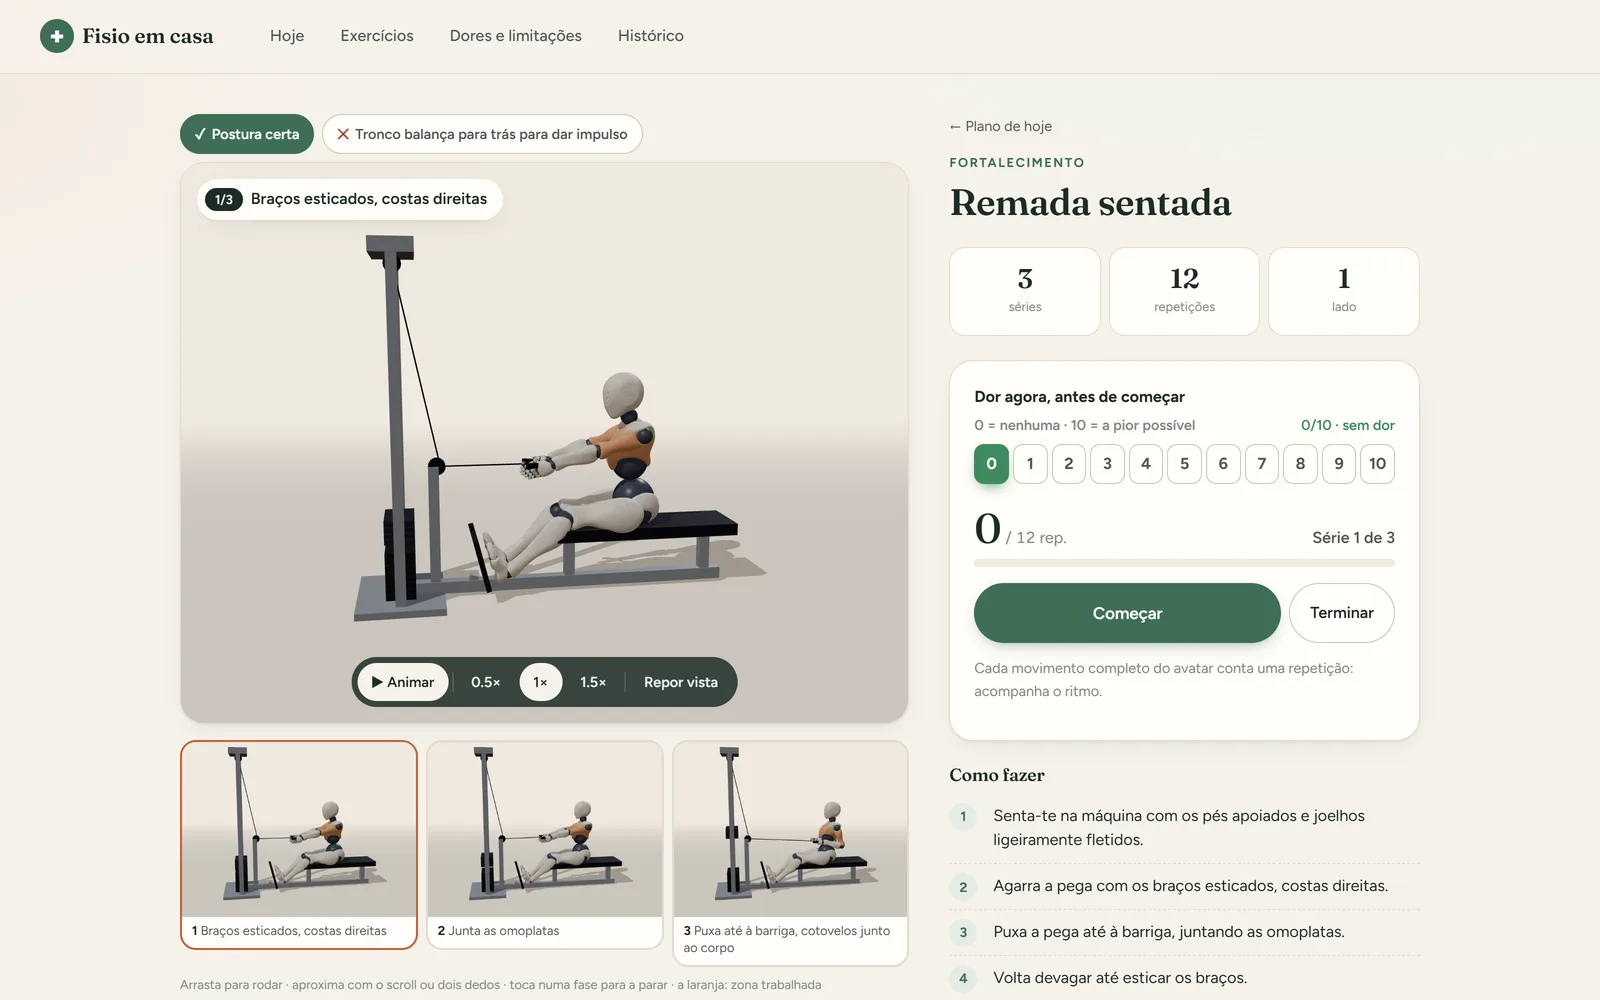
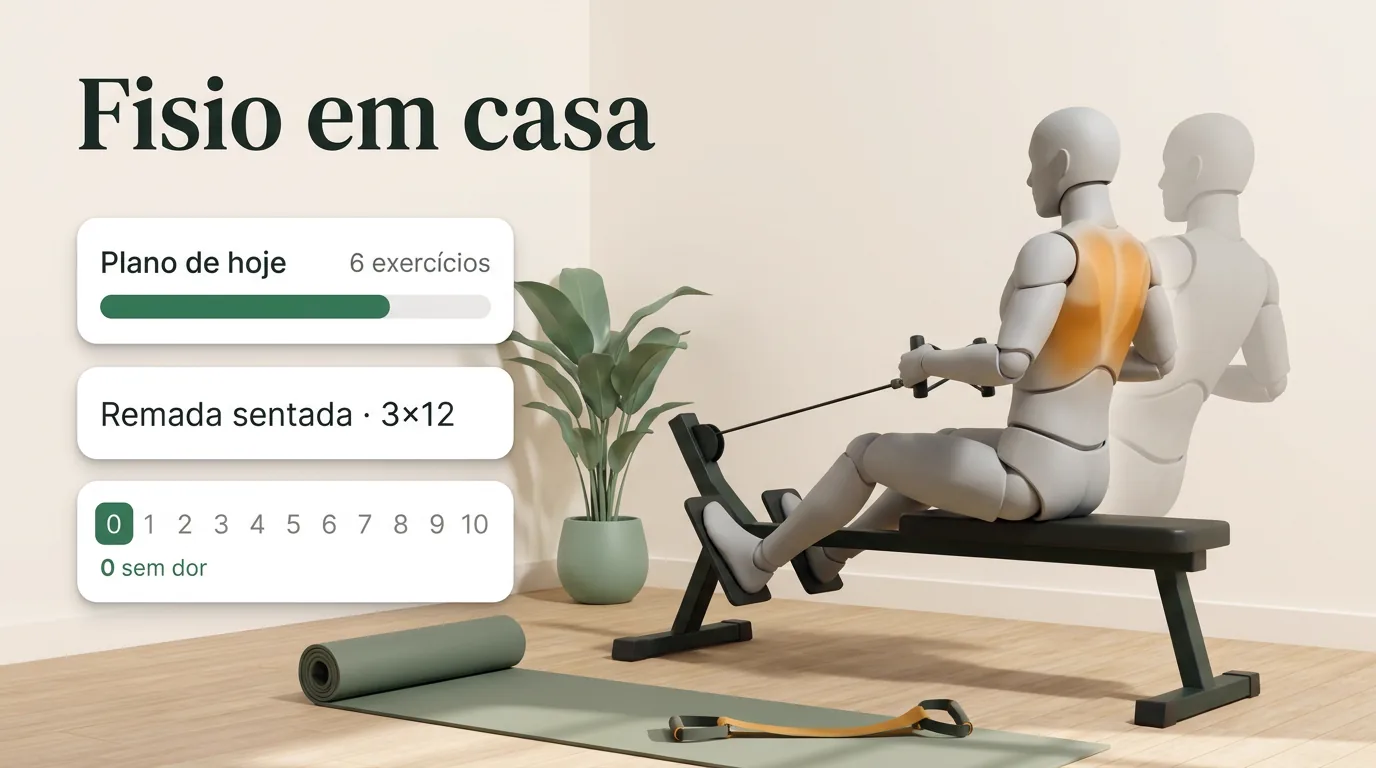
feat: new concept covers for EsDomusTech, L'Essence, Lousa and Fisio
EsDomusTech gets its own 16:9 cover instead of the logo and the
portrait photo. Cards align these covers left so the side crop
keeps the project name in the image intact.

diff --git a/index.html b/index.html
@@ -163,7 +163,7 @@
 
           <!-- EsDomusTech (Lovable) -->
           <article class="project-card span-7 reveal">
-            <img src="assets/img/esdomustech-t3-hero.webp" alt="Casa modular EsDomusTech" class="project-img" loading="lazy" width="1086" height="1448" />
+            <img src="assets/img/esdomustech-cover.webp" alt="EsDomusTech: casa modular ao anoitecer, com linhas de planta técnica a dourado e as medidas dos módulos" class="project-img" loading="lazy" width="1376" height="768" style="object-position: left center" />
             <div class="project-overlay"></div>
             <span class="project-index mono">01</span>
             <span class="project-arrow" aria-hidden="true">
@@ -248,7 +248,7 @@
 
           <!-- L'Essence Atelier -->
           <article class="project-card span-5 reveal" style="--d:.08s">
-            <img src="assets/img/lessence-atelier-cover.webp" alt="Loja online L'Essence Atelier" class="project-img" loading="lazy" width="1600" height="1000" style="object-position: 80% center" />
+            <img src="assets/img/lessence-atelier-cover.webp" alt="L'Essence Atelier: frasco de perfume sobre mármore com cartões da loja online — tamanhos, checkout em 3 passos, encomendas e eventos de analytics" class="project-img" loading="lazy" width="1376" height="768" style="object-position: left center" />
             <div class="project-overlay"></div>
             <span class="project-index mono">06</span>
             <span class="project-arrow" aria-hidden="true">
@@ -265,7 +265,7 @@
 
           <!-- Lousa -->
           <article class="project-card span-7 reveal">
-            <img src="assets/img/lousa-cover.webp" alt="Lousa: layout de armazém com corredores A a D, docas, receção e rota de picking em S desenhada à mão, com post-its de notas" class="project-img" loading="lazy" width="1600" height="1000" />
+            <img src="assets/img/lousa-cover.webp" alt="Lousa: planta de armazém desenhada a giz numa ardósia, com rota de picking em S, post-its e cursores de três pessoas a desenhar ao mesmo tempo" class="project-img" loading="lazy" width="1376" height="768" style="object-position: left center" />
             <div class="project-overlay"></div>
             <span class="project-index mono">07</span>
             <span class="project-arrow" aria-hidden="true">
@@ -282,7 +282,7 @@
 
           <!-- Fisio em casa -->
           <article class="project-card span-5 reveal" style="--d:.08s">
-            <img src="assets/img/fisio-em-casa-cover.webp" alt="Fisio em casa: avatar 3D numa máquina de remada sentada" class="project-img" loading="lazy" width="1600" height="1000" style="object-position: 30% center" />
+            <img src="assets/img/fisio-em-casa-cover.webp" alt="Fisio em casa: avatar 3D na remada sentada com a zona trabalhada a laranja, plano do dia e escala de dor" class="project-img" loading="lazy" width="1376" height="768" style="object-position: left center" />
             <div class="project-overlay"></div>
             <span class="project-index mono">08</span>
             <span class="project-arrow" aria-hidden="true">

diff --git a/projects.html b/projects.html
@@ -70,9 +70,7 @@
 
         <!-- EsDomusTech (Lovable) -->
         <article class="project-card reveal" data-category="client">
-          <div class="project-logo-thumb framed">
-            <img src="assets/img/domustech-logo.webp" alt="Logo ESDOMUSTECH" loading="lazy" width="800" height="800" />
-          </div>
+          <img src="assets/img/esdomustech-cover.webp" alt="EsDomusTech: casa modular ao anoitecer, com linhas de planta técnica a dourado e as medidas dos módulos" class="project-thumb" loading="lazy" width="1376" height="768" style="object-position: left center" />
           <div class="project-body">
             <div class="project-head mono">
               <span class="project-no">01</span>
@@ -167,7 +165,7 @@
 
         <!-- L'Essence Atelier -->
         <article class="project-card reveal" data-category="fullstack" style="--d:.06s">
-          <img src="assets/img/lessence-atelier-cover.webp" alt="L'Essence Atelier" class="project-thumb" loading="lazy" width="1600" height="1000" />
+          <img src="assets/img/lessence-atelier-cover.webp" alt="L'Essence Atelier: frasco de perfume sobre mármore com cartões da loja online — tamanhos, checkout em 3 passos, encomendas e eventos de analytics" class="project-thumb" loading="lazy" width="1376" height="768" style="object-position: left center" />
           <div class="project-body">
             <div class="project-head mono">
               <span class="project-no">06</span>
@@ -224,7 +222,7 @@
 
         <!-- Lousa -->
         <article class="project-card reveal" data-category="fullstack ops" style="--d:.06s">
-          <img src="assets/img/lousa-cover.webp" alt="Lousa: layout de armazém com corredores A a D, docas, receção e rota de picking em S desenhada à mão, com post-its de notas" class="project-thumb" loading="lazy" width="1600" height="1000" />
+          <img src="assets/img/lousa-cover.webp" alt="Lousa: planta de armazém desenhada a giz numa ardósia, com rota de picking em S, post-its e cursores de três pessoas a desenhar ao mesmo tempo" class="project-thumb" loading="lazy" width="1376" height="768" style="object-position: left center" />
           <div class="project-body">
             <div class="project-head mono">
               <span class="project-no">09</span>
@@ -243,7 +241,7 @@
 
         <!-- Fisio em casa -->
         <article class="project-card reveal" data-category="fullstack 3d">
-          <img src="assets/img/fisio-em-casa-cover.webp" alt="Fisio em casa: avatar 3D numa máquina de remada sentada, com as fases do exercício e o registo de dor ao lado" class="project-thumb" loading="lazy" width="1600" height="1000" />
+          <img src="assets/img/fisio-em-casa-cover.webp" alt="Fisio em casa: avatar 3D na remada sentada com a zona trabalhada a laranja, plano do dia e escala de dor" class="project-thumb" loading="lazy" width="1376" height="768" style="object-position: left center" />
           <div class="project-body">
             <div class="project-head mono">
               <span class="project-no">10</span>

diff --git a/projetos/esdomustech.html b/projetos/esdomustech.html
@@ -14,7 +14,7 @@
   <meta property="og:type" content="article" />
   <meta property="og:locale" content="pt_PT" />
   <meta property="og:url" content="https://diogoafonsosilva.github.io/projetos/esdomustech.html" />
-  <meta property="og:image" content="https://diogoafonsosilva.github.io/assets/img/esdomustech-t3-hero.webp" />
+  <meta property="og:image" content="https://diogoafonsosilva.github.io/assets/img/esdomustech-cover.webp" />
   <meta name="twitter:card" content="summary_large_image" />
 
   <link rel="icon" type="image/png" href="../assets/img/favicon.png" />
@@ -37,7 +37,7 @@
     "name": "EsDomusTech",
     "description": "Site institucional para uma marca de casas modulares no Porto. Tem de convencer famílias que ainda estão a comparar opções de que esta não é uma construtora qualquer — e levá-las a pedir orçamento.",
     "url": "https://diogoafonsosilva.github.io/projetos/esdomustech.html",
-    "image": "https://diogoafonsosilva.github.io/assets/img/esdomustech-t3-hero.webp",
+    "image": "https://diogoafonsosilva.github.io/assets/img/esdomustech-cover.webp",
     "author": {
       "@type": "Person",
       "name": "Diogo Silva",
@@ -84,7 +84,7 @@
             </div>
           </div>
           <figure class="case-cover reveal is-tall" style="--d:.1s">
-            <img src="../assets/img/esdomustech-t3-hero.webp" alt="Casa modular EsDomusTech" width="1086" height="1448" fetchpriority="high" />
+            <img src="../assets/img/esdomustech-cover.webp" alt="EsDomusTech: casa modular ao anoitecer, com linhas de planta técnica a dourado e as medidas dos módulos" width="1376" height="768" fetchpriority="high" />
           </figure>
         </div>
         <dl class="case-meta reveal" style="--d:.18s">

diff --git a/projetos/lessence-atelier.html b/projetos/lessence-atelier.html
@@ -84,7 +84,7 @@
             </div>
           </div>
           <figure class="case-cover reveal" style="--d:.1s">
-            <img src="../assets/img/lessence-atelier-cover.webp" alt="Homepage da L'Essence Atelier: título &quot;O que fica depois de sair da sala&quot; ao lado de um frasco de perfume sobre mármore" width="1600" height="1000" fetchpriority="high" />
+            <img src="../assets/img/lessence-atelier-cover.webp" alt="L'Essence Atelier: frasco de perfume sobre mármore com cartões da loja online — tamanhos, checkout em 3 passos, encomendas e eventos de analytics" width="1376" height="768" fetchpriority="high" />
           </figure>
         </div>
         <dl class="case-meta reveal" style="--d:.18s">

diff --git a/projetos/lousa.html b/projetos/lousa.html
@@ -84,7 +84,7 @@
             </div>
           </div>
           <figure class="case-cover reveal" style="--d:.1s">
-            <img src="../assets/img/lousa-cover.webp" alt="Lousa: layout de armazém com corredores A a D, docas, receção e rota de picking em S desenhada à mão, com post-its de notas" width="1600" height="1000" fetchpriority="high" />
+            <img src="../assets/img/lousa-cover.webp" alt="Lousa: planta de armazém desenhada a giz numa ardósia, com rota de picking em S, post-its e cursores de três pessoas a desenhar ao mesmo tempo" width="1376" height="768" fetchpriority="high" />
           </figure>
         </div>
         <dl class="case-meta reveal" style="--d:.18s">

diff --git a/projetos/fisio-em-casa.html b/projetos/fisio-em-casa.html
@@ -84,7 +84,7 @@
             </div>
           </div>
           <figure class="case-cover reveal" style="--d:.1s">
-            <img src="../assets/img/fisio-em-casa-cover.webp" alt="Fisio em casa: avatar 3D numa máquina de remada sentada, com as fases do exercício e o registo de dor ao lado" width="1600" height="1000" fetchpriority="high" />
+            <img src="../assets/img/fisio-em-casa-cover.webp" alt="Fisio em casa: avatar 3D na remada sentada com a zona trabalhada a laranja, plano do dia e escala de dor" width="1376" height="768" fetchpriority="high" />
           </figure>
         </div>
         <dl class="case-meta reveal" style="--d:.18s">

diff --git a/CLAUDE.md b/CLAUDE.md
@@ -63,6 +63,8 @@ npx serve .
 - 2026-10-19 — Filtros do catálogo trocados de tecnologia (Web/Marca/E-commerce/Lovable) para objetivo de vaga, como um recrutador filtra: `client` Clientes reais (EsDomusTech, TAIPAM, EVPM), `fullstack` Apps fullstack (Fiat Flow, L'Essence, Lousa, Fisio), `ops` Operações & logística (Happy Hamburgers, Botica, Lousa), `3d` 3D & simulação (Monopólio, Happy Hamburgers, Botica, Fisio). Não voltar a filtrar por ferramenta (ex.: "Lovable").
 - 2026-10-21 — Link do EsDomusTech mudado de `https://esdomustech.vercel.app/` para `https://esdomustech-site.vercel.app/` (`projetos/esdomustech.html`): o nome curto pertence a uma equipa Vercel antiga, o projeto atual na conta é `esdomustech-site`. Canonical e JSON-LD de `McLarenSite/`, `SeaPortoHotel/`, `SneakerStore/` e `VendasFestival/` corrigidos de `/web-designs/<pasta>/` (404) para `/<pasta>/`.
 
+- 2026-10-25 — Capas novas de conceito (feitas pelo utilizador, 1376×768) para EsDomusTech, L'Essence Atelier, Lousa e Fisio em casa, no estilo das capas do Monopólio, Happy Hamburgers e Botica. EsDomusTech passa a ter capa própria (`esdomustech-cover.webp`) no index, no catálogo (substitui o logo `.project-logo-thumb`) e no hero/og:image da página; `esdomustech-t3-hero.webp` e `domustech-logo.webp` ficam sem uso. As outras três substituem o ficheiro com o mesmo nome. Como estas capas têm o nome do projeto no canto superior esquerdo, os `<img>` dos cartões levam `object-position: left center`, para o corte lateral não partir o nome. Fiat Flow Tracker mantém a capa atual (decisão do utilizador).
+
 ## Não fazer
 
 - Não juntar `home.css` e `projects.css` num só ficheiro — os dois definem `.project-card` de forma incompatível de propósito.
